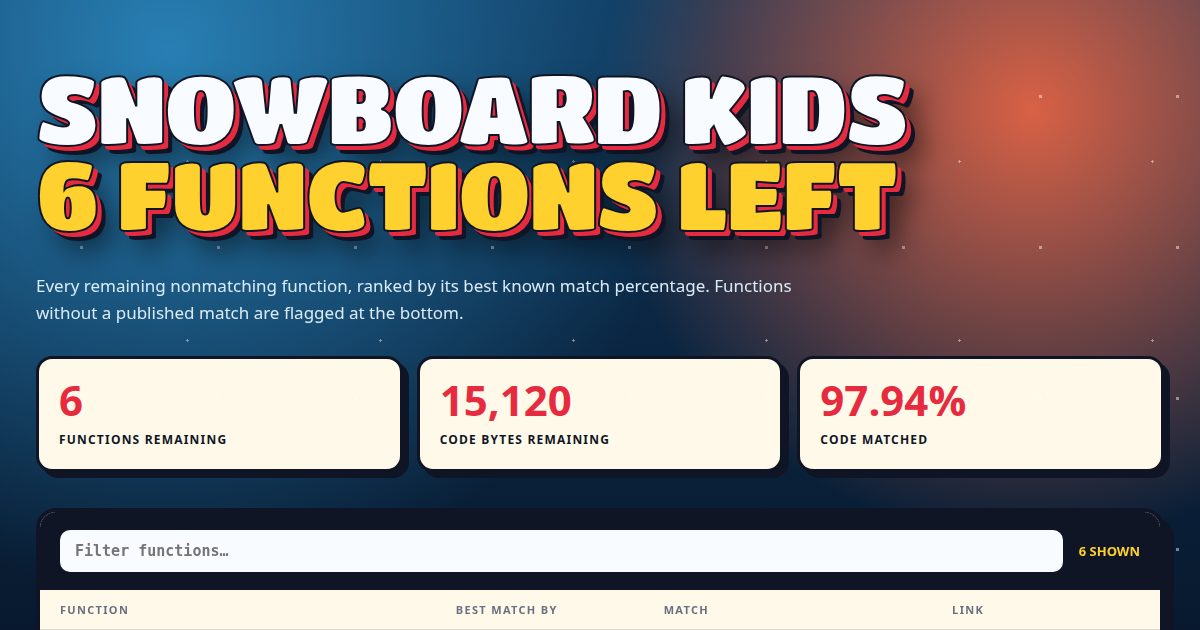
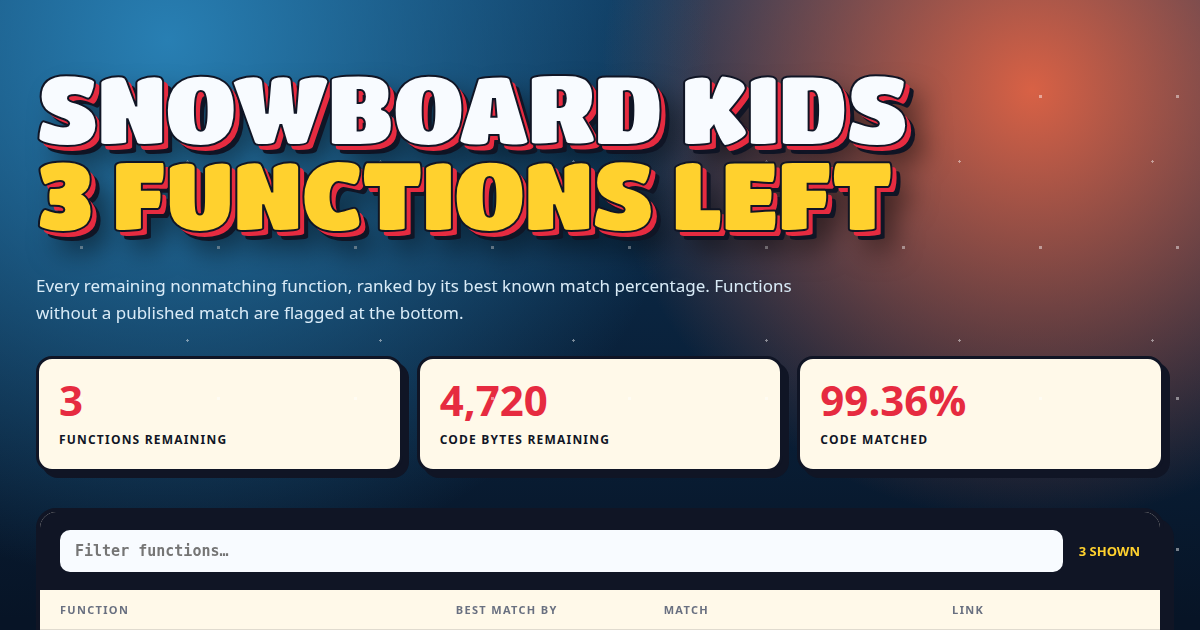
update leaderboard

diff --git a/docs/index.html b/docs/index.html
@@ -3,9 +3,9 @@
   <head>
     <meta charset="utf-8" />
     <meta name="viewport" content="width=device-width, initial-scale=1" />
-    <title>Snowboard Kids — 6 Functions Left</title>
+    <title>Snowboard Kids — 3 Functions Left</title>
     <meta name="description" content="Snowboard Kids matching decompilation progress and remaining function report." />
-    <meta property="og:title" content="Snowboard Kids — 6 Functions Left" />
+    <meta property="og:title" content="Snowboard Kids — 3 Functions Left" />
     <meta property="og:description" content="Best known match percentages for the remaining functions." />
     <meta property="og:type" content="website" />
     <meta property="og:image" content="og.png" />
@@ -199,21 +199,21 @@
   </head>
   <body>
     <header>
-      <h1>Snowboard Kids<br /><em>6 functions left</em></h1>
+      <h1>Snowboard Kids<br /><em>3 functions left</em></h1>
       <p class="intro">Every remaining nonmatching function, ranked by its best known match percentage. Functions without a published match are flagged at the bottom.</p>
     </header>
 
     <section class="stats" aria-label="Project summary">
-      <div class="stat"><strong>6</strong><span>functions remaining</span></div>
-      <div class="stat"><strong>15,120</strong><span>code bytes remaining</span></div>
-      <div class="stat"><strong>97.94%</strong><span>code matched</span></div>
+      <div class="stat"><strong>3</strong><span>functions remaining</span></div>
+      <div class="stat"><strong>4,720</strong><span>code bytes remaining</span></div>
+      <div class="stat"><strong>99.36%</strong><span>code matched</span></div>
     </section>
 
     <main>
       <section class="panel">
         <div class="toolbar">
           <label><input id="search" type="search" placeholder="Filter functions…" autocomplete="off" /></label>
-          <span id="visible-count">6 shown</span>
+          <span id="visible-count">3 shown</span>
         </div>
         <div class="table-head"><span>Function</span><span>Best match by</span><span>Match</span><span>Link</span></div>
         <article class="function-row" data-name="decompresshuffmanassetpayload" data-score="99.904580">
@@ -234,15 +234,6 @@
           <div class="score-cell"><div class="score-track" aria-label="Match 99.798%"><span style="width:99.798%"></span></div><strong>99.798%</strong></div>
           <div class="actions"><a class="action" href="https://decomp.me/scratch/rfaUd" target="_blank" rel="noopener">decomp.me ↗</a></div>
         </article>
-        <article class="function-row" data-name="updatemultiplayercourseselectmenu" data-score="99.730539">
-          <div class="function-cell">
-            <span class="function-name">updateMultiplayerCourseSelectMenu</span>
-            <span class="function-size">3,340 bytes</span>
-          </div>
-          <div class="source-cell">Bl00D4NGEL</div>
-          <div class="score-cell"><div class="score-track" aria-label="Match 99.731%"><span style="width:99.731%"></span></div><strong>99.731%</strong></div>
-          <div class="actions"><a class="action" href="https://decomp.me/scratch/rmipn" target="_blank" rel="noopener">decomp.me ↗</a></div>
-        </article>
         <article class="function-row" data-name="drawmenuspritefixedscale" data-score="99.343602">
           <div class="function-cell">
             <span class="function-name">drawMenuSpriteFixedScale</span>
@@ -252,29 +243,11 @@
           <div class="score-cell"><div class="score-track" aria-label="Match 99.344%"><span style="width:99.344%"></span></div><strong>99.344%</strong></div>
           <div class="actions"><a class="action" href="https://decomp.me/scratch/SZ3ro" target="_blank" rel="noopener">decomp.me ↗</a></div>
         </article>
-        <article class="function-row" data-name="resolveraceplayercollisionvolumes" data-score="99.094368">
-          <div class="function-cell">
-            <span class="function-name">resolveRacePlayerCollisionVolumes</span>
-            <span class="function-size">5,264 bytes</span>
-          </div>
-          <div class="source-cell">cdlewis</div>
-          <div class="score-cell"><div class="score-track" aria-label="Match 99.094%"><span style="width:99.094%"></span></div><strong>99.094%</strong></div>
-          <div class="actions"><a class="action" href="https://decomp.me/scratch/uK1h7" target="_blank" rel="noopener">decomp.me ↗</a></div>
-        </article>
-        <article class="function-row" data-name="drawmenuspritewithalphaclipped" data-score="96.213808">
-          <div class="function-cell">
-            <span class="function-name">drawMenuSpriteWithAlphaClipped</span>
-            <span class="function-size">1,796 bytes</span>
-          </div>
-          <div class="source-cell">inspectredc</div>
-          <div class="score-cell"><div class="score-track" aria-label="Match 96.214%"><span style="width:96.214%"></span></div><strong>96.214%</strong></div>
-          <div class="actions"><a class="action" href="https://decomp.me/scratch/tuv9T" target="_blank" rel="noopener">decomp.me ↗</a></div>
-        </article>
         <p class="empty" id="empty">No functions match that filter.</p>
       </section>
     </main>
 
-    <footer>Generated 2026-08-19 14:57 UTC · scores are snapshots and may have moved since generation</footer>
+    <footer>Generated 2026-08-19 17:57 UTC · scores are snapshots and may have moved since generation</footer>
     <script>
       const search = document.querySelector("#search");
       const rows = [...document.querySelectorAll(".function-row")];
